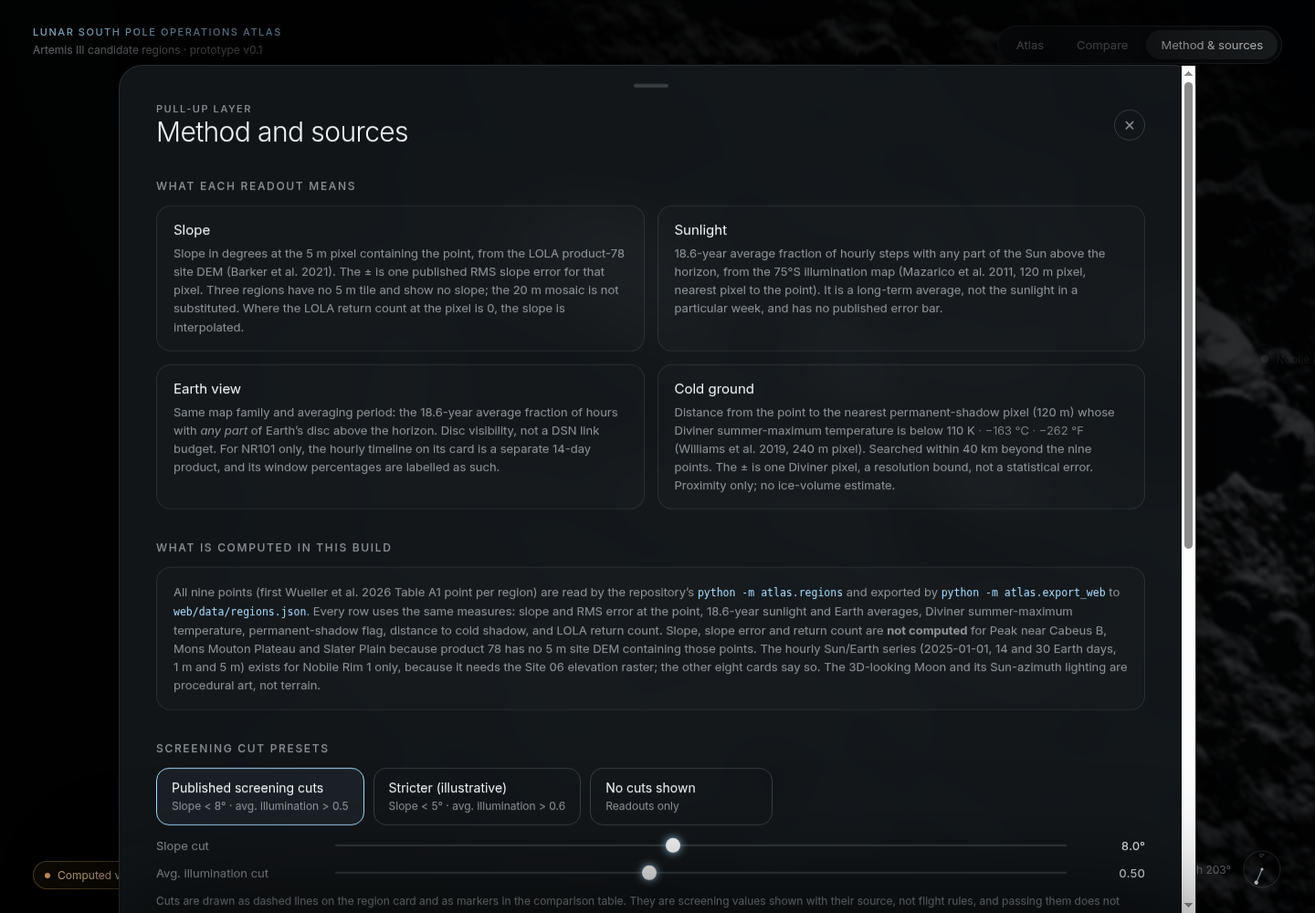
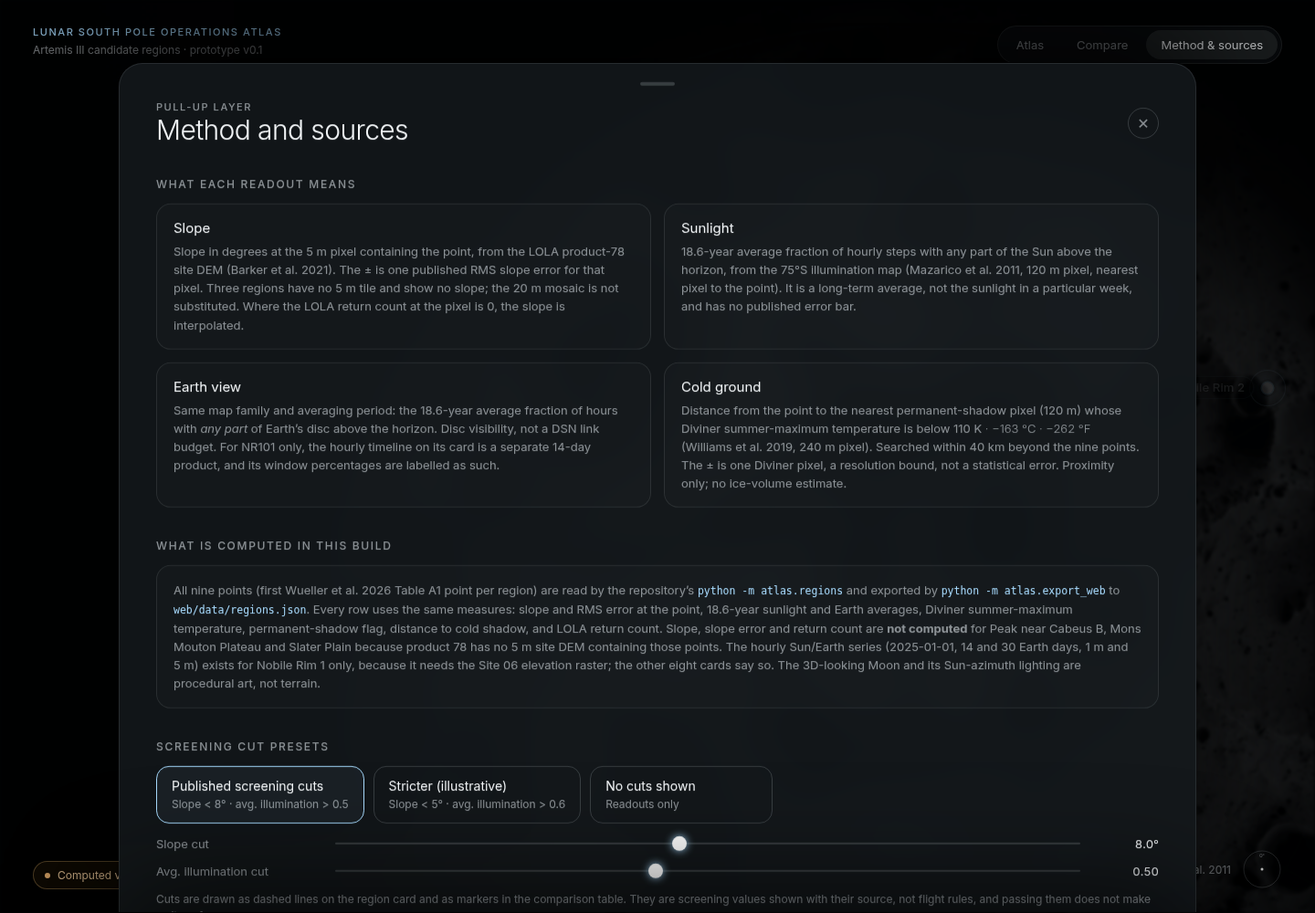
web: mobile-safe region labels, larger markers, real LOLA backdrop
- Collision-aware, viewport-clamped label placement with short names on narrow screens; labels visible on mobile with a subtle backdrop
- 44 px tap targets, larger glowing points
- Cold-ground dial and block temperature conversions no longer wrap oddly at 390 px; compare table gets a swipe hint and edge fade
- Home backdrop is the LOLA average sunlight visibility raster (Mazarico 2011, 120 m) exported by atlas/export_backdrop.py to web/data/backdrop.webp; procedural terrain kept as fallback
- Add mobile and before/after screenshots

diff --git a/moon-south-pole-atlas/web/index.html b/moon-south-pole-atlas/web/index.html
@@ -29,14 +29,14 @@ body.layer-open #moon{filter:brightness(.35) blur(2px)}
 body.sheet-open #markers{transform:scale(1.04) translateY(-3%)}
 body.layer-open #markers{opacity:.15}
 .mk{position:absolute;width:0;height:0;pointer-events:auto}
-.mk .hit{position:absolute;left:-18px;top:-18px;width:36px;height:36px;border-radius:50%}
-.mk .dot{position:absolute;left:-4px;top:-4px;width:8px;height:8px;border-radius:50%;background:#eaf7ff;box-shadow:0 0 0 1px rgba(169,220,255,.55),0 0 14px 3px var(--ice-glow);transition:transform .4s var(--spring)}
-.mk .halo{position:absolute;left:-16px;top:-16px;width:32px;height:32px;border-radius:50%;border:1px solid rgba(169,220,255,.35);animation:pulse 3.6s var(--ease) infinite;animation-delay:var(--d,0s)}
-@keyframes pulse{0%{transform:scale(.4);opacity:0}30%{opacity:.9}100%{transform:scale(1.5);opacity:0}}
-.mk .tag{position:absolute;white-space:nowrap;font-size:12px;color:var(--mute);transform:translate(var(--tx,12px),-50%);transition:color .3s, opacity .3s;letter-spacing:.01em;text-shadow:0 1px 8px #000}
-.mk.left .tag{--tx:calc(-100% - 12px)}
-.mk:hover .dot,.mk.sel .dot{transform:scale(1.6)}
-.mk:hover .tag,.mk.sel .tag{color:var(--ink)}
+.mk .hit{position:absolute;left:-22px;top:-22px;width:44px;height:44px;border-radius:50%}
+.mk .dot{position:absolute;left:-6px;top:-6px;width:12px;height:12px;border-radius:50%;background:#fff;box-shadow:0 0 0 1.5px rgba(169,220,255,.85),0 0 0 4px rgba(5,6,7,.35),0 0 18px 5px var(--ice-glow);transition:transform .4s var(--spring)}
+.mk .halo{position:absolute;left:-20px;top:-20px;width:40px;height:40px;border-radius:50%;border:1.5px solid rgba(169,220,255,.5);animation:pulse 3.6s var(--ease) infinite;animation-delay:var(--d,0s)}
+@keyframes pulse{0%{transform:scale(.4);opacity:0}30%{opacity:.95}100%{transform:scale(1.5);opacity:0}}
+.mk .tag{position:absolute;left:0;top:0;white-space:nowrap;font-size:13px;font-weight:500;line-height:1;padding:5px 9px;border-radius:999px;color:#eaf2f7;background:rgba(5,6,7,.62);border:1px solid rgba(169,220,255,.2);-webkit-backdrop-filter:blur(8px);backdrop-filter:blur(8px);transition:color .3s,background .3s,border-color .3s,opacity .3s;letter-spacing:.01em;text-shadow:0 1px 6px #000}
+.mk .tag .s{display:none}
+.mk:hover .dot,.mk.sel .dot{transform:scale(1.5)}
+.mk:hover .tag,.mk.sel .tag{color:#fff;background:rgba(10,18,26,.8);border-color:rgba(169,220,255,.6)}
 .mk.sel .halo{animation:none;opacity:1;transform:scale(1.05);border-color:var(--ice)}
 .mk:focus-visible{outline:none}.mk:focus-visible .halo{border-color:#fff;opacity:1;animation:none}
 
@@ -90,7 +90,7 @@ body.sheet-open .foot{opacity:0}
 .extra .label{font-size:10px}
 .conv{color:var(--mute);font-weight:300}
 .extra b .conv{display:block;font-size:12px;margin-top:1px}
-.ring .val .u .conv{display:block;margin-top:1px;letter-spacing:.02em;font-size:10px}
+.ring .val .u{text-align:center}.ring .val .u .conv{display:block;margin-top:2px;letter-spacing:.02em;font-size:10px;white-space:nowrap}
 td .conv{display:block;font-size:12px;white-space:nowrap}
 .na{color:#ffc27a}
 .dial.missing .ring{opacity:.45}
@@ -107,7 +107,6 @@ td .conv{display:block;font-size:12px;white-space:nowrap}
 .ring .val .u{font-size:11px;color:var(--mute);margin-top:4px;letter-spacing:.06em}
 .ring circle{fill:none;stroke-linecap:round;transition:stroke-dasharray 1.1s var(--ease),stroke-dashoffset 1.1s var(--ease)}
 .def{font-size:11.5px;color:var(--mute);text-align:center;line-height:1.45;min-height:34px}
-.mk.up .tag{transform:translate(-50%,-26px)}.mk.down .tag{transform:translate(-50%,12px)}
 .rb{margin-top:14px}
 .rb .track{position:relative;height:18px}
 .rb .base{position:absolute;left:0;right:0;top:8px;height:2px;background:var(--line2);border-radius:2px}
@@ -181,12 +180,14 @@ tbody tr:hover{background:rgba(169,220,255,.04)}
 td .nm{font-weight:400}
 td .sid{display:block;font-size:11px;color:var(--faint);margin-top:2px}
 .cutok{color:var(--ice)}.cutno{color:var(--faint)}
-.tablewrap{overflow-x:auto}
+.tablewrap{overflow-x:auto;-webkit-overflow-scrolling:touch}.swipe{display:none;font-size:11px;color:var(--ice);margin-top:12px;letter-spacing:.04em}
 
 .scrim{position:fixed;inset:0;z-index:15;background:rgba(0,0,0,.25);opacity:0;pointer-events:none;transition:opacity .5s}
 body.layer-open .scrim{opacity:1;pointer-events:auto}
 
 @media (max-width:900px){
+  .swipe{display:block}.tablewrap{-webkit-mask-image:linear-gradient(90deg,#000 calc(100% - 28px),transparent);mask-image:linear-gradient(90deg,#000 calc(100% - 28px),transparent)}
+  td:first-child,th:first-child{min-width:138px}
   .top{padding:18px 18px}
   .hero-copy{left:18px;right:18px;top:auto;bottom:90px;max-width:none}
   .hero-copy h1{font-size:34px}
@@ -197,13 +198,13 @@ body.layer-open .scrim{opacity:1;pointer-events:auto}
   .grid2{grid-template-columns:1fr}
   .foot{left:18px;right:18px;bottom:18px}
   .compass span{display:none}
-  .mk .tag{display:none}.mk.sel .tag{display:block}
+  .mk .tag{font-size:12.5px;padding:5px 8px}
   .sl{grid-template-columns:1fr 70px}.sl label{grid-column:1/-1}
   .brand .t2{display:none}
   .nav .long{display:none}
   .brand .label{max-width:150px;line-height:1.4}
 }
-@media (max-width:520px){.dials,.extras{grid-template-columns:1fr}.ring{width:172px;height:172px}.nav button{padding:7px 11px}}
+@media (max-width:520px){.mk .tag .l{display:none}.mk .tag .s{display:inline}.dials,.extras{grid-template-columns:1fr}.ring{width:172px;height:172px}.nav button{padding:7px 11px}}
 @media (prefers-reduced-motion:reduce){*{transition-duration:.01s!important;animation:none!important}}
 </style>
 </head>
@@ -329,6 +330,7 @@ body.layer-open .scrim{opacity:1;pointer-events:auto}
     <div class="grab"></div>
     <div class="lh"><div><div class="label">All nine regions · same measures in every row</div><h2>Side by side, unranked</h2></div><button class="x" data-close aria-label="Close">✕</button></div>
     <div class="example-note real-note"><b style="color:#8fe3b0">Computed</b><span>Every row is read from the same maps at one published point. Sunlight and Earth are 18.6-year averages in all rows. Rows are listed by longitude, west to east. This is not a ranking and there is no combined score. “n/a” means the input map does not cover the point.</span></div>
+    <div class="swipe" aria-hidden="true">Swipe the table sideways for all seven columns →</div>
     <div class="tablewrap"><table>
       <thead><tr><th>Region</th><th>Slope at point</th><th>Sunlight<br>18.6-yr avg</th><th>Earth in view<br>18.6-yr avg</th><th>Summer<br>max temp.</th><th>Nearest cold ground</th><th>Shown cuts</th></tr></thead>
       <tbody id="tbody"></tbody>
@@ -351,15 +353,15 @@ function rng(seed){let s=seed>>>0||1;return()=>{s^=s<<13;s>>>=0;s^=s>>17;s^=s<<5
 
 // ---------- regions (Oct 2024 list; marker = first Wueller et al. 2026 Table A1 site per region, from docs/data-sources.md) ----------
 const REGIONS=[
- {id:'CAB',name:'Peak near Cabeus B',lat:-83.763,lon:-69.983,site:'PCB01'},
- {id:'DGR',name:'de Gerlache Rim 2',lat:-88.513,lon:-68.015,site:'dGR101'},
- {id:'HAW',name:'Haworth',lat:-86.768,lon:-20.514,site:'HW01'},
- {id:'MAL',name:'Malapert Massif',lat:-85.942,lon:-0.944,site:'MMA01'},
- {id:'MMP',name:'Mons Mouton Plateau',lat:-85.111,lon:26.710,site:'MMP01'},
- {id:'MMO',name:'Mons Mouton',lat:-85.416,lon:31.851,site:'MMO01'},
- {id:'NR1',name:'Nobile Rim 1',lat:-85.295,lon:36.917,site:'NR101'},
- {id:'NR2',name:'Nobile Rim 2',lat:-84.054,lon:56.481,site:'NR201'},
- {id:'SLP',name:'Slater Plain',lat:-87.478,lon:124.521,site:'SP01'},
+ {id:'CAB',short:'Cabeus B',name:'Peak near Cabeus B',lat:-83.763,lon:-69.983,site:'PCB01'},
+ {id:'DGR',short:'de Gerlache 2',name:'de Gerlache Rim 2',lat:-88.513,lon:-68.015,site:'dGR101'},
+ {id:'HAW',short:'Haworth',name:'Haworth',lat:-86.768,lon:-20.514,site:'HW01'},
+ {id:'MAL',short:'Malapert',name:'Malapert Massif',lat:-85.942,lon:-0.944,site:'MMA01'},
+ {id:'MMP',short:'Mouton Plateau',name:'Mons Mouton Plateau',lat:-85.111,lon:26.710,site:'MMP01'},
+ {id:'MMO',short:'Mons Mouton',name:'Mons Mouton',lat:-85.416,lon:31.851,site:'MMO01'},
+ {id:'NR1',short:'Nobile 1',name:'Nobile Rim 1',lat:-85.295,lon:36.917,site:'NR101'},
+ {id:'NR2',short:'Nobile 2',name:'Nobile Rim 2',lat:-84.054,lon:56.481,site:'NR201'},
+ {id:'SLP',short:'Slater',name:'Slater Plain',lat:-87.478,lon:124.521,site:'SP01'},
 ];
 let H0=new Date(Date.UTC(2025,0,1,0)); // real NR101 timeline window start
 const REAL=window.NR101_DATA||null;       // hourly timeline, NR101 only (atlas/export_web.py)
@@ -401,7 +403,9 @@ const off=document.createElement('canvas'); off.width=off.height=N;
 const octx=off.getContext('2d'); const img=octx.createImageData(N,N);
 const hgt=new Float32Array(N*N), gx=new Float32Array(N*N), gy=new Float32Array(N*N), alb=new Float32Array(N*N);
 function toMap(lat,lon){const r=(90+lat)/EXT*(N/2);return [N/2+r*Math.sin(lon*D2R), N/2-r*Math.cos(lon*D2R)];}
-(function build(){
+let procBuilt=false;
+function buildProc(){
+  if(procBuilt)return;procBuilt=true;
   const g=rng(4242);
   // value noise
   const G=64, grid=new Float32Array((G+1)*(G+1)).map(()=>g());
@@ -424,9 +428,14 @@ function toMap(lat,lon){const r=(90+lat)/EXT*(N/2);return [N/2+r*Math.sin(lon*D2
   // random craters, power-law sizes
   for(let i=0;i<900;i++){const R=0.8+Math.pow(g(),4)*20;crater(g()*N,g()*N,R,R*(0.18+g()*0.12));}
   for(let y=1;y<N-1;y++)for(let x=1;x<N-1;x++){const i=y*N+x;gx[i]=(hgt[i+1]-hgt[i-1])*0.9;gy[i]=(hgt[i+N]-hgt[i-N])*0.9;}
-})();
+}
+// Real backdrop: LOLA average sunlight visibility (Mazarico et al. 2011, 120 m), resampled by atlas/export_backdrop.py to this same layout.
+// The procedural terrain above is only a fallback if the image cannot load.
+let realBd=null;
+{const im=new Image();im.decoding='async';im.onload=()=>{realBd=im;layout();};im.onerror=()=>{buildProc();shade();draw();};im.src='data/backdrop.webp';}
 let sunAz=200*D2R, autoLight=true;
 function shade(){
+  if(realBd||!procBuilt)return;
   const elev=9*D2R, lz=Math.sin(elev), ce=Math.cos(elev), lx=Math.sin(sunAz)*ce, ly=-Math.cos(sunAz)*ce;
   const d=img.data, ux=Math.sin(sunAz), uy=-Math.cos(sunAz), rise=Math.tan(elev)/1.8*2;
   for(let y=0;y<N;y++){for(let x=0;x<N;x++){const i=y*N+x;
@@ -443,8 +452,8 @@ let W=0,Hh=0,DPR=1,cx=0,cy=0,ppd=0;
 function layout(){
   DPR=Math.min(2,window.devicePixelRatio||1); W=innerWidth; Hh=innerHeight;
   cv.width=W*DPR; cv.height=Hh*DPR;
-  if(W>900){cx=W*0.64;cy=Hh*0.70;ppd=Math.min(W,Hh)*0.58/6.2;}
-  else{cx=W*0.5;cy=Hh*0.46;ppd=Math.min(W,Hh*0.8)*0.5/6.0;}
+  if(W>900){cx=W*0.675;cy=Hh*0.70;ppd=Math.min(W,Hh)*0.52/6.2;}
+  else{cx=W*0.5;cy=Hh*0.46;ppd=Math.min(W*0.42,Hh*0.8*0.5)/6.0;}
   placeMarkers(); draw(); 
 }
 function project(lat,lon){const r=(90+lat)*ppd;return [cx+r*Math.sin(lon*D2R), cy-r*Math.cos(lon*D2R)];}
@@ -455,7 +464,8 @@ function draw(){
   const eg=ctx.createRadialGradient(cx,cy-EXT*ppd*1.1,0,cx,cy-EXT*ppd*1.1,EXT*ppd*1.4);
   eg.addColorStop(0,'rgba(120,170,220,.07)');eg.addColorStop(1,'rgba(0,0,0,0)');ctx.fillStyle=eg;ctx.fillRect(0,0,W,Hh);
   ctx.imageSmoothingEnabled=true;ctx.imageSmoothingQuality='high';
-  const S=EXT*ppd; ctx.drawImage(off,cx-S,cy-S,2*S,2*S);
+  const S=EXT*ppd; ctx.drawImage(realBd||off,cx-S,cy-S,2*S,2*S);
+  {const ef=ctx.createRadialGradient(cx,cy,S*.72,cx,cy,S);ef.addColorStop(0,'rgba(5,6,7,0)');ef.addColorStop(1,'rgba(5,6,7,1)');ctx.fillStyle=ef;ctx.fillRect(cx-S-2,cy-S-2,2*S+4,2*S+4);}
   // graticule
   ctx.strokeStyle='rgba(169,220,255,.07)';ctx.lineWidth=1;
   for(const c of [2,4,6,8]){ctx.beginPath();ctx.arc(cx,cy,c*ppd,0,Math.PI*2);ctx.stroke();}
@@ -467,13 +477,17 @@ function draw(){
   vg.addColorStop(0,'rgba(5,6,7,0)');vg.addColorStop(1,'rgba(5,6,7,.85)');ctx.fillStyle=vg;ctx.fillRect(0,0,W,Hh);
   const lg=ctx.createLinearGradient(0,0,W*.55,0);lg.addColorStop(0,'rgba(5,6,7,.75)');lg.addColorStop(1,'rgba(5,6,7,0)');
   if(W>900){ctx.fillStyle=lg;ctx.fillRect(0,0,W*.55,Hh);}
-  $('#sunneedle').setAttribute('transform',`rotate(${(sunAz/D2R)%360} 22 22)`);
-  $('#sunlbl').textContent=`Illustrative lighting · Sun azimuth ${(((sunAz/D2R)%360)+360)%360|0}°`;
+  const az=(((sunAz/D2R)%360)+360)%360|0, tl=!autoLight;
+  $('#sunneedle').setAttribute('transform',`rotate(${az} 22 22)`);
+  if(realBd){$('#sunneedle').style.opacity=tl?1:0;
+    $('#sunlbl').textContent=tl?`Sun azimuth ${az}° · NR101 timeline hour (backdrop lighting is not re-rendered)`:'Backdrop: LOLA average sunlight visibility, 120 m · Mazarico et al. 2011';}
+  else $('#sunlbl').textContent=`Illustrative lighting · Sun azimuth ${az}°`;
 }
 let last=0;
 function loop(t){
-  if(autoLight && t-last>45){sunAz+= (t-last)/1000*D2R*3; last=t; shade(); draw();}
+  if(!realBd && procBuilt && autoLight && t-last>45){sunAz+= (t-last)/1000*D2R*3; last=t; shade(); draw();}
   else if(!autoLight && needRedraw){needRedraw=false;shade();draw();}
+  else if(realBd && needRedraw){needRedraw=false;draw();}
   if(autoLight===false) last=t;
   requestAnimationFrame(loop);
 }
@@ -482,11 +496,31 @@ let needRedraw=false;
 // ---------- markers ----------
 const mkWrap=$('#markers');
 REGIONS.forEach((r,i)=>{const el=document.createElement('button');el.className='mk';el.dataset.id=r.id;el.style.setProperty('--d',(i*0.4)+'s');
-  el.setAttribute('aria-label',r.name);el.innerHTML='<span class="halo"></span><span class="hit"></span><span class="dot"></span><span class="tag">'+r.name+'</span>';
+  el.setAttribute('aria-label',r.name);el.innerHTML='<span class="halo"></span><span class="hit"></span><span class="dot"></span><span class="tag"><span class="l">'+r.name+'</span><span class="s">'+(r.short||r.name)+'</span></span>';
   el.addEventListener('click',()=>openRegion(r.id));
   el.addEventListener('mouseenter',()=>{if(!sel)el.classList.add('sel')});el.addEventListener('mouseleave',()=>{if(sel!==r.id)el.classList.remove('sel')});
   mkWrap.appendChild(el);r.el=el;});
-function placeMarkers(){REGIONS.forEach(r=>{const[x,y]=project(r.lat,r.lon);r.el.style.left=x+'px';r.el.style.top=y+'px';r.el.classList.toggle('left',['CAB','DGR','HAW','MAL'].includes(r.id));r.el.classList.toggle('up',r.id==='MMO'||r.id==='MMP');r.el.classList.toggle('down',r.id==='NR1');});}
+function placeMarkers(){
+  const pts=REGIONS.map(r=>{const[x,y]=project(r.lat,r.lon);r.el.style.left=x+'px';r.el.style.top=y+'px';return{r,x,y};});
+  // collision-aware, viewport-clamped label placement: try preferred side, then the others; never leave the screen
+  const M=10,TOP=W>900?20:64,BOT=Hh-10,G=14,pref={CAB:'u',DGR:'l',HAW:'l',MAL:'l',MMO:'u',MMP:'u',NR1:'d'};
+  const placed=[],hit=(a,b)=>a.l<b.r&&a.r>b.l&&a.t<b.b&&a.b>b.t;
+  const dots=pts.map(p=>({l:p.x-22,r:p.x+22,t:p.y-22,b:p.y+22}));
+  if(W>900){const hc=document.querySelector('.hero-copy').getBoundingClientRect();placed.push({l:hc.left-8,r:hc.right+8,t:hc.top-8,b:hc.bottom+8});} // keep labels off the hero copy on desktop
+  pts.forEach(p=>{const t=p.r.el.querySelector('.tag');const w=t.offsetWidth,h=t.offsetHeight;
+    const c={l:[p.x-G-w,p.y-h/2],r:[p.x+G,p.y-h/2],u:[p.x-w/2,p.y-G-h-4],d:[p.x-w/2,p.y+G+4],a:[p.x+8,p.y-G-h-2],b:[p.x-8-w,p.y-G-h-2],c:[p.x+8,p.y+G+2],e:[p.x-8-w,p.y+G+2],f:[p.x+G,p.y-h-20],g:[p.x+G,p.y+20],i:[p.x-G-w,p.y-h-20],j:[p.x-G-w,p.y+20]};
+    const order=[pref[p.r.id]||'r',...'rludabcefgij'.split('').filter(k=>k!==(pref[p.r.id]||'r'))];
+    let best=null,bs=1e9;
+    for(const k of order){let[x,y]=c[k];
+      const ox=Math.max(0,M-x)+Math.max(0,x+w-(W-M)),oy=Math.max(0,TOP-y)+Math.max(0,y+h-BOT);
+      const rc={l:x,r:x+w,t:y,b:y+h};
+      let col=0;placed.forEach(q=>{if(hit(rc,q))col++});dots.forEach((q,i)=>{if(i!==pts.indexOf(p)&&hit(rc,q))col++});
+      const sc=(ox+oy)*100+col*60+order.indexOf(k);
+      if(sc<bs){bs=sc;best={x,y,rc};} if(sc<13)break;}
+    // final clamp
+    let{x,y}=best;x=Math.min(Math.max(x,M),W-M-w);y=Math.min(Math.max(y,TOP),BOT-h);
+    t.style.left=(x-p.x)+'px';t.style.top=(y-p.y)+'px';placed.push({l:x,r:x+w,t:y,b:y+h});});
+}
 
 // ---------- region card ----------
 let sel=null, height=1, cur=null, hour=0;
@@ -506,7 +540,7 @@ const DEF={
  slope:{lab:'Slope',q:'Flat enough to land?',unit:'DEG · AT POINT',min:0,max:20,dec:1,suf:'°',def:'Slope at the 5 m pixel containing the point, with the Barker et al. RMS slope error',src:'LOLA 5 m site DEM · Barker et al. 2021',href:'https://pgda.gsfc.nasa.gov/products/78',cut:()=>cuts.on?{v:cuts.slope,t:'cut < '+cuts.slope+'°'}:null},
  sun:{lab:'Sunlight',q:'Lit enough to stay powered?',unit:'18.6-YR AVG',min:0,max:1,dec:2,suf:'',def:'18.6-year average fraction of hourly steps with any part of the Sun above the horizon (120 m map). Long-term average, not a particular week.',src:'Mazarico et al. 2011 · PGDA 69',href:'https://pgda.gsfc.nasa.gov/products/69',cut:()=>cuts.on?{v:cuts.ill,t:'cut > '+cuts.ill.toFixed(2)}:null},
  earth:{lab:'Earth view',q:'In view of Earth?',unit:'18.6-YR AVG',min:0,max:100,dec:0,suf:'%',def:'18.6-year average, any part of the Earth disc above the horizon (120 m map). Disc visibility, not a link budget.',src:'Mazarico et al. 2011 · PGDA 69',href:'https://pgda.gsfc.nasa.gov/products/69',cut:()=>null},
- cold:{lab:'Cold ground',q:'Near ground cold enough to hold ice?',unit:'KM · <110 K',unitHTML:()=>'KM · &lt;'+Units.kHTML(110),min:0,max:15,dec:1,suf:'',def:'Distance to the nearest permanent-shadow pixel with Diviner summer max below '+Units.kText(110)+'. Proximity only, no ice volume.',src:'Diviner · Williams et al. 2019',href:'https://doi.org/10.1029/2019JE006028',cut:()=>null}
+ cold:{lab:'Cold ground',q:'Near ground cold enough to hold ice?',unit:'KM · <110 K',unitHTML:()=>'KM · &lt;110&nbsp;K<span class="conv">'+Units.kHTML(110).replace(/^.*?<span class="conv"> \u00b7 /,'').replace(/<\/span>$/,'')+'</span>',min:0,max:15,dec:1,suf:'',def:'Distance to the nearest permanent-shadow pixel with Diviner summer max below '+Units.kText(110)+'. Proximity only, no ice volume.',src:'Diviner · Williams et al. 2019',href:'https://doi.org/10.1029/2019JE006028',cut:()=>null}
 };
 const CIRC=2*Math.PI*58, ARC=CIRC*0.75;
 const NA_WHY={slope:s=>s.q.slope_source,sun:()=>'The 75°S illumination map has no value at this point.',earth:()=>'The 75°S illumination map has no value at this point.',cold:()=>'No permanent-shadow pixel below '+Units.kText(110)+' was found within the search window.'};
@@ -554,7 +588,7 @@ function renderExtras(){
   ex.push(['Permanent shadow',q.permanent_shadow==null?'n/a':q.permanent_shadow?'Inside':'Outside','75°S illumination map, '+pl(q.permanent_shadow_pixel_label)+' pixel']);
   ex.push(['LOLA returns in pixel',q.lola_return_count==null?'n/a':String(Math.round(q.lola_return_count)),q.lola_return_count==null?'Not computed: no 5 m tile contains this point':q.interpolated_gap?'0 = slope here is interpolated':'Measured returns at the 5 m pixel']);
   ex.push(['Slope DEM',pl(q.slope_dem_label)||'none','LOLA product 78; the 20 m mosaic is not substituted']);
-  $('#extras').innerHTML=ex.map(e=>`<div class="extra"><span class="label">${e[0]}</span><b class="${e[1]==='n/a'||e[1]==='none'?'na':''}">${e[1]}</b>${e[2]}</div>`).join('');
+  $('#extras').innerHTML=ex.map(e=>`<div class="extra"><span class="label">${e[0]}</span><b class="${e[1]==='n/a'||e[1]==='none'?'na':''}">${e[1]}</b>${e[2]}</div>`).join('');stripConvDots($('#extras'));
 }
 function openRegion(id){
   const r=REGIONS.find(x=>x.id===id); if(!r)return; sel=id;
@@ -583,10 +617,10 @@ function openRegion(id){
   if(!cur.missing)renderDials();
   $('#sheet').classList.add('open'); $('#sheet').setAttribute('aria-hidden','false'); document.body.classList.add('sheet-open');
   closeLayers(true); setNav('atlas');
-  if(hasTL)requestAnimationFrame(()=>{sizeTL();setHour(hour);}); else {autoLight=true;stopPlay();}
+  if(hasTL)requestAnimationFrame(()=>{sizeTL();setHour(hour);}); else {autoLight=true;needRedraw=true;stopPlay();}
   history.replaceState(null,'','#region/'+id);
 }
-function closeRegion(){sel=null;REGIONS.forEach(x=>x.el.classList.remove('sel'));$('#sheet').classList.remove('open');document.body.classList.remove('sheet-open');autoLight=true;stopPlay();history.replaceState(null,'','#');}
+function closeRegion(){sel=null;REGIONS.forEach(x=>x.el.classList.remove('sel'));$('#sheet').classList.remove('open');document.body.classList.remove('sheet-open');autoLight=true;needRedraw=true;stopPlay();history.replaceState(null,'','#');}
 $('#close').onclick=closeRegion;
 
 // ---------- timeline ----------
@@ -661,12 +695,14 @@ function renderTable(){
     <td>${s.q.summer_max_temperature_k==null?na:Units.kHTML(s.q.summer_max_temperature_k)}</td>
     <td>${s.cold?s.cold.v.toFixed(1)+' km<small>±'+hs(s.cold).toFixed(2)+'</small>':na}</td>
     <td style="font-size:12.5px">${cut}</td></tr>`;}).join('');
-  $('#tbody').innerHTML=rows;
+  $('#tbody').innerHTML=rows;stripConvDots($('#tbody'));
   $$('#tbody tr').forEach(tr=>tr.onclick=()=>openRegion(tr.dataset.id));
 }
 
+// block-level temperature conversions carry a leading separator dot from units.js; drop it where it would start a line
+function stripConvDots(root){(root||document).querySelectorAll('.extra b .conv, td .conv').forEach(e=>{e.innerHTML=e.innerHTML.replace(/^\s*\u00b7\s*/,'');});}
 // ---------- init ----------
-$$("[data-kelvin]").forEach(e=>e.innerHTML=Units.kHTML(+e.dataset.kelvin));
+$$("[data-kelvin]").forEach(e=>e.innerHTML=Units.kHTML(+e.dataset.kelvin));stripConvDots(document);
 addEventListener('resize',()=>{layout();if(sel&&cur&&cur.series){sizeTL();setHour(hour);}segThumb();});
 layout(); shade(); draw(); segThumb(); syncCuts(); requestAnimationFrame(loop);
 const h=location.hash.slice(1);

diff --git a/moon-south-pole-atlas/atlas/export_backdrop.py b/moon-south-pole-atlas/atlas/export_backdrop.py
@@ -1,0 +1,73 @@
+"""Export the home-screen backdrop image (web/data/backdrop.webp).
+
+The backdrop is the LOLA/Mazarico et al. 2011 average-sunlight-visibility
+raster (AVGVISIB_75S_120M_201608, 120 m) resampled from south-polar
+stereographic to the azimuthal-equidistant layout used by web/index.html
+(radius proportional to colatitude, longitude 0 straight up, covering
++/-EXT degrees of colatitude). Tone only: it is not a hillshade, not an
+elevation model and carries no values. Marker positions come from the same
+latitude/longitude, so they line up with the real terrain.
+
+    python -m atlas.export_backdrop [--size 2048]
+"""
+from __future__ import annotations
+
+import argparse
+from pathlib import Path
+
+import numpy as np
+import rasterio
+from PIL import Image
+
+from atlas.frame import RADIUS_M, SOLAR_DN_SCALE, illumination_transform
+
+EXT = 8.5  # degrees of colatitude from the pole to the image edge; keep equal to EXT in web/index.html
+RAW = Path(__file__).resolve().parents[1] / "data" / "raw" / "AVGVISIB_75S_120M_201608.JP2"
+OUT = Path(__file__).resolve().parents[1] / "web" / "data" / "backdrop.webp"
+
+
+def render(size: int) -> Image.Image:
+    with rasterio.open(RAW) as src:
+        v = src.read(1).astype(np.float32) * SOLAR_DN_SCALE
+    a, _, c, _, e, f = illumination_transform()
+    ax = (np.arange(size, dtype=np.float64) + 0.5 - size / 2) / (size / 2)
+    X, Y = np.meshgrid(ax, ax)
+    rr = np.hypot(X, Y)
+    colat = rr * np.radians(EXT)
+    rho = 2 * RADIUS_M * np.tan(colat / 2)
+    sx, sy = X / np.maximum(rr, 1e-12), -Y / np.maximum(rr, 1e-12)  # sin(lon), cos(lon); lon 0 is up
+    x, y = rho * sx, rho * sy
+    col = (x - c) / a - 0.5
+    row = (y - f) / e - 0.5
+    # bilinear sample (downsampling 120 m -> ~255 m/px at 2048; average 2x2 first to avoid aliasing)
+    k = max(1, int(round((2 * RADIUS_M * np.tan(np.radians(EXT) / 2) * 2 / size) / abs(a))))
+    if k > 1:
+        n = (v.shape[0] // k) * k
+        v = v[:n, :n].reshape(n // k, k, n // k, k).mean(axis=(1, 3))
+        col = (col + 0.5) / k - 0.5
+        row = (row + 0.5) / k - 0.5
+    c0 = np.clip(np.floor(col).astype(int), 0, v.shape[1] - 2)
+    r0 = np.clip(np.floor(row).astype(int), 0, v.shape[0] - 2)
+    fx, fy = np.clip(col - c0, 0, 1), np.clip(row - r0, 0, 1)
+    s = (v[r0, c0] * (1 - fx) * (1 - fy) + v[r0, c0 + 1] * fx * (1 - fy)
+         + v[r0 + 1, c0] * (1 - fx) * fy + v[r0 + 1, c0 + 1] * fx * fy)
+    # tone: gentle curve so shadowed ground stays dark but legible, lit ridges stay below white
+    t = np.clip(s / 0.9, 0, 1) ** 0.8
+    fade = np.clip(1 - rr ** 4, 0, 1)
+    g = (t * 0.92 + 0.02) * fade
+    rgb = np.stack([g * 226 + 3, g * 231 + 4, g * 238 + 6], axis=-1)
+    return Image.fromarray(np.clip(rgb, 0, 255).astype(np.uint8))
+
+
+def main() -> None:
+    p = argparse.ArgumentParser()
+    p.add_argument("--size", type=int, default=2048)
+    p.add_argument("--quality", type=int, default=80)
+    args = p.parse_args()
+    OUT.parent.mkdir(parents=True, exist_ok=True)
+    render(args.size).save(OUT, "WEBP", quality=args.quality, method=6)
+    print(f"wrote {OUT} ({OUT.stat().st_size/1e6:.2f} MB)")
+
+
+if __name__ == "__main__":
+    main()

diff --git a/moon-south-pole-atlas/web/README.md b/moon-south-pole-atlas/web/README.md
@@ -49,12 +49,16 @@ This writes `web/data/regions.json` and `nr101.json` (canonical) plus `.js` twin
 
 ## Screenshots
 
-`web/screenshots/`: `home.png`, `nr101-card.png` (with timeline), `haworth-card.png`, `cabeus-card-no-slope.png` (slope not computed), `compare.png`, `method.png`. Taken with headless Chrome (the long virtual-time budget lets the card open animation finish):
+`web/screenshots/`: mobile and before/after additions `home-mobile.png` (390×844), `home-mobile-360.png`, `home-1440x900.png`, `nr101-card-mobile.png`, `nr101-card-mobile-full.png` (whole card incl. cold-ground dial), `compare-mobile.png`, `before-home.png`, `before-home-mobile.png`; plus `home.png`, `nr101-card.png` (with timeline), `haworth-card.png`, `cabeus-card-no-slope.png` (slope not computed), `compare.png`, `method.png`. Taken with headless Chrome (the long virtual-time budget lets the card open animation finish):
 
 ```
 google-chrome --headless=new --window-size=1440,1000 --virtual-time-budget=15000 \
   --screenshot=web/screenshots/compare.png "file://$PWD/web/index.html#compare"
 ```
+
+## Backdrop
+
+The home-screen Moon is real data, not a drawing: the LOLA average sunlight visibility raster (Mazarico et al. 2011, `AVGVISIB_75S_120M_201608`, 120 m) resampled to `web/data/backdrop.webp` (3072 px, about 0.4 MB) by `python -m atlas.export_backdrop`. It is a tone map of how often ground sees the Sun, not a hillshade or an elevation model, and it carries no values. The export reprojects south-polar stereographic to the page's azimuthal-equidistant layout (radius proportional to colatitude, longitude 0 up, +/-8.5° of colatitude), so the markers use the same latitude and longitude as the terrain. The canvas draws at devicePixelRatio. If the image cannot load, the page falls back to the old procedural terrain. The UI credits the backdrop (bottom right). The NR101 timeline still shows the real Sun azimuth on the compass, but the backdrop lighting is not re-rendered per hour.
 
 ## Limitations
 
